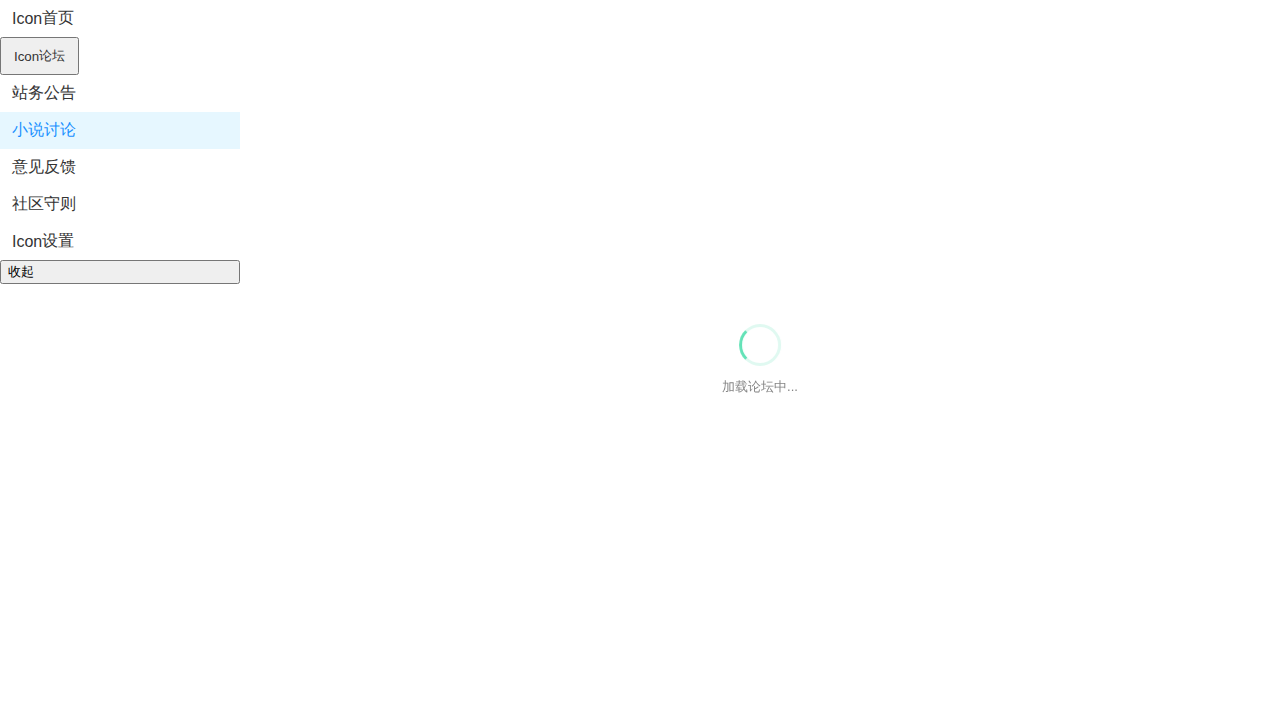
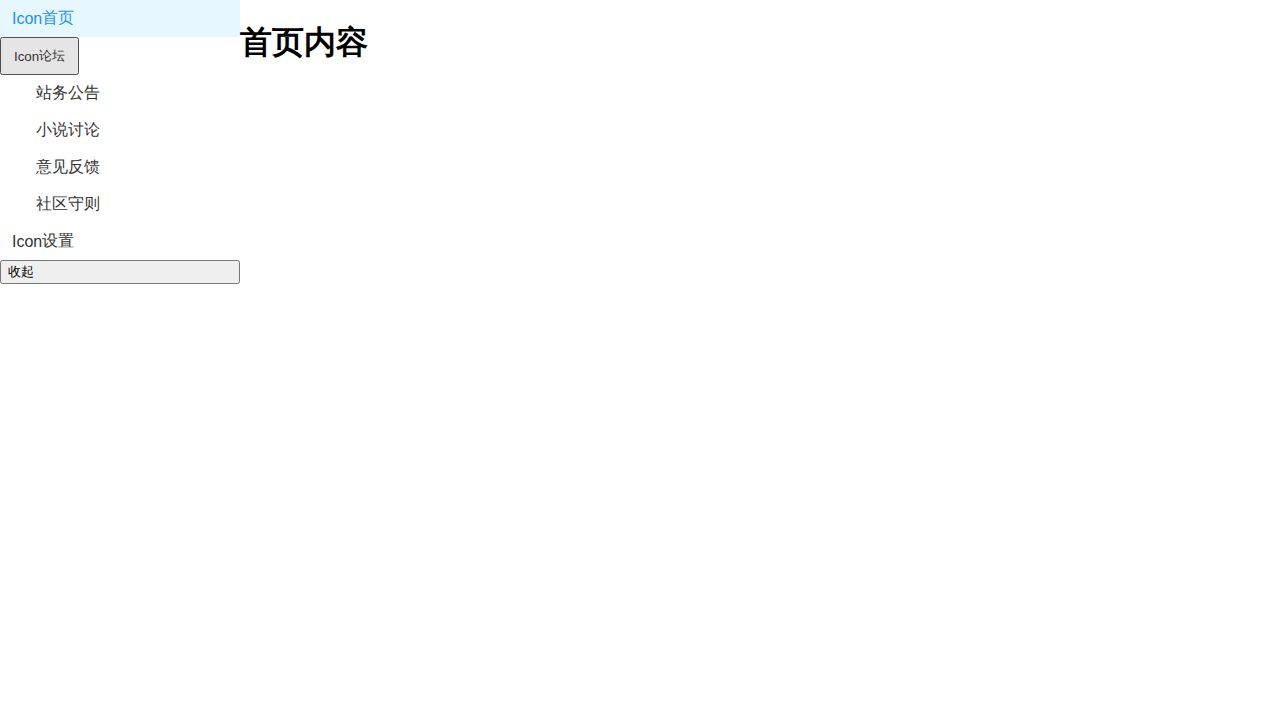
Fix forum-iframe sidebar injection, iframe expansion, and subitem indentation/arrow
- Add findForumMenuItem to detect both legacy Naive UI (.n-menu-item) and modern web-kit-sidebar (.web-kit-sidebar-item) layouts on n.novelia.cc
- Adapt transformForumSidebarMenu to construct a collapsible submenu for web-kit-sidebar with proper classes, icons, and indentation
- Add distinct 36px left padding for web-kit-sidebar sub-items
- Add explicit collapse arrow indicator with smooth CSS rotation transition
- Fix updateSelectedSubmenuItem to apply active styling (.bg-primary-soft .text-primary) to web-kit sidebar items
- Update CSS rules under html.novelia-forum-active to expand main container and iframe to fill viewport height and width
- Sync changes between script/novelia_forum_iframe.js and novelia_qol_bundle.js

diff --git a/novelia_qol_bundle.js b/novelia_qol_bundle.js
@@ -1052,6 +1052,9 @@
                     .novelia-forum-submenu .n-menu-item-content__arrow {
                         margin-left: auto !important;
                     }
+                    .sidebar-submenu .web-kit-sidebar-item {
+                        padding-left: 36px !important;
+                    }
 
                     /* Forum Collapsed Popover Menu */
                     .novelia-forum-dropdown-popover {
@@ -1438,7 +1441,9 @@
                     labelSpan.textContent = '论坛';
 
                     const arrowSvg = document.createElement('svg');
-                    arrowSvg.className = `size-4 flex-none transition-[transform,opacity] duration-150 ${isExpanded ? 'rotate-0' : '-rotate-90'} opacity-100`;
+                    arrowSvg.className = `size-4 flex-none transition-[transform,opacity] duration-150 opacity-100`;
+                    arrowSvg.style.transform = isExpanded ? 'rotate(0deg)' : 'rotate(-90deg)';
+                    arrowSvg.style.transition = 'transform 0.2s ease';
                     arrowSvg.setAttribute('aria-hidden', 'true');
                     arrowSvg.setAttribute('viewBox', '0 0 24 24');
                     arrowSvg.innerHTML = `<path d="M7.41 8.59L12 13.17l4.59-4.58L18 10l-6 6l-6-6l1.41-1.41z" fill="currentColor"></path>`;
@@ -1449,7 +1454,7 @@
                     submenuContainer.appendChild(headerBtn);
 
                     const childrenDiv = document.createElement('div');
-                    childrenDiv.className = `sidebar-submenu ${isExpanded ? 'flex' : 'hidden'} flex-col gap-1 pl-9 mt-0.5`;
+                    childrenDiv.className = `sidebar-submenu ${isExpanded ? 'flex' : 'hidden'} flex-col gap-1 mt-0.5`;
 
                     subItems.forEach(item => {
                         const link = document.createElement('a');
@@ -1515,7 +1520,9 @@
                         localStorage.setItem('novelia_forum_submenu_expanded', isExpanded ? 'true' : 'false');
 
                         headerBtn.setAttribute('aria-expanded', isExpanded ? 'true' : 'false');
-                        arrowSvg.className = `size-4 flex-none transition-[transform,opacity] duration-150 ${isExpanded ? 'rotate-0' : '-rotate-90'} opacity-100`;
+                        arrowSvg.className = `size-4 flex-none transition-[transform,opacity] duration-150 opacity-100`;
+                    arrowSvg.style.transform = isExpanded ? 'rotate(0deg)' : 'rotate(-90deg)';
+                    arrowSvg.style.transition = 'transform 0.2s ease';
 
                         if (isExpanded) {
                             childrenDiv.classList.remove('hidden');

diff --git a/script/novelia_forum_iframe.js b/script/novelia_forum_iframe.js
@@ -369,6 +369,9 @@
             .novelia-forum-submenu .n-menu-item-content__arrow {
                 margin-left: auto !important;
             }
+            .sidebar-submenu .web-kit-sidebar-item {
+                padding-left: 36px !important;
+            }
 
             /* Forum Collapsed Popover Menu */
             .novelia-forum-dropdown-popover {
@@ -755,7 +758,9 @@
             labelSpan.textContent = '论坛';
 
             const arrowSvg = document.createElement('svg');
-            arrowSvg.className = `size-4 flex-none transition-[transform,opacity] duration-150 ${isExpanded ? 'rotate-0' : '-rotate-90'} opacity-100`;
+            arrowSvg.className = `size-4 flex-none transition-[transform,opacity] duration-150 opacity-100`;
+            arrowSvg.style.transform = isExpanded ? 'rotate(0deg)' : 'rotate(-90deg)';
+            arrowSvg.style.transition = 'transform 0.2s ease';
             arrowSvg.setAttribute('aria-hidden', 'true');
             arrowSvg.setAttribute('viewBox', '0 0 24 24');
             arrowSvg.innerHTML = `<path d="M7.41 8.59L12 13.17l4.59-4.58L18 10l-6 6l-6-6l1.41-1.41z" fill="currentColor"></path>`;
@@ -766,7 +771,7 @@
             submenuContainer.appendChild(headerBtn);
 
             const childrenDiv = document.createElement('div');
-            childrenDiv.className = `sidebar-submenu ${isExpanded ? 'flex' : 'hidden'} flex-col gap-1 pl-9 mt-0.5`;
+            childrenDiv.className = `sidebar-submenu ${isExpanded ? 'flex' : 'hidden'} flex-col gap-1 mt-0.5`;
 
             subItems.forEach(item => {
                 const link = document.createElement('a');
@@ -832,7 +837,9 @@
                 localStorage.setItem('novelia_forum_submenu_expanded', isExpanded ? 'true' : 'false');
 
                 headerBtn.setAttribute('aria-expanded', isExpanded ? 'true' : 'false');
-                arrowSvg.className = `size-4 flex-none transition-[transform,opacity] duration-150 ${isExpanded ? 'rotate-0' : '-rotate-90'} opacity-100`;
+                arrowSvg.className = `size-4 flex-none transition-[transform,opacity] duration-150 opacity-100`;
+            arrowSvg.style.transform = isExpanded ? 'rotate(0deg)' : 'rotate(-90deg)';
+            arrowSvg.style.transition = 'transform 0.2s ease';
 
                 if (isExpanded) {
                     childrenDiv.classList.remove('hidden');
